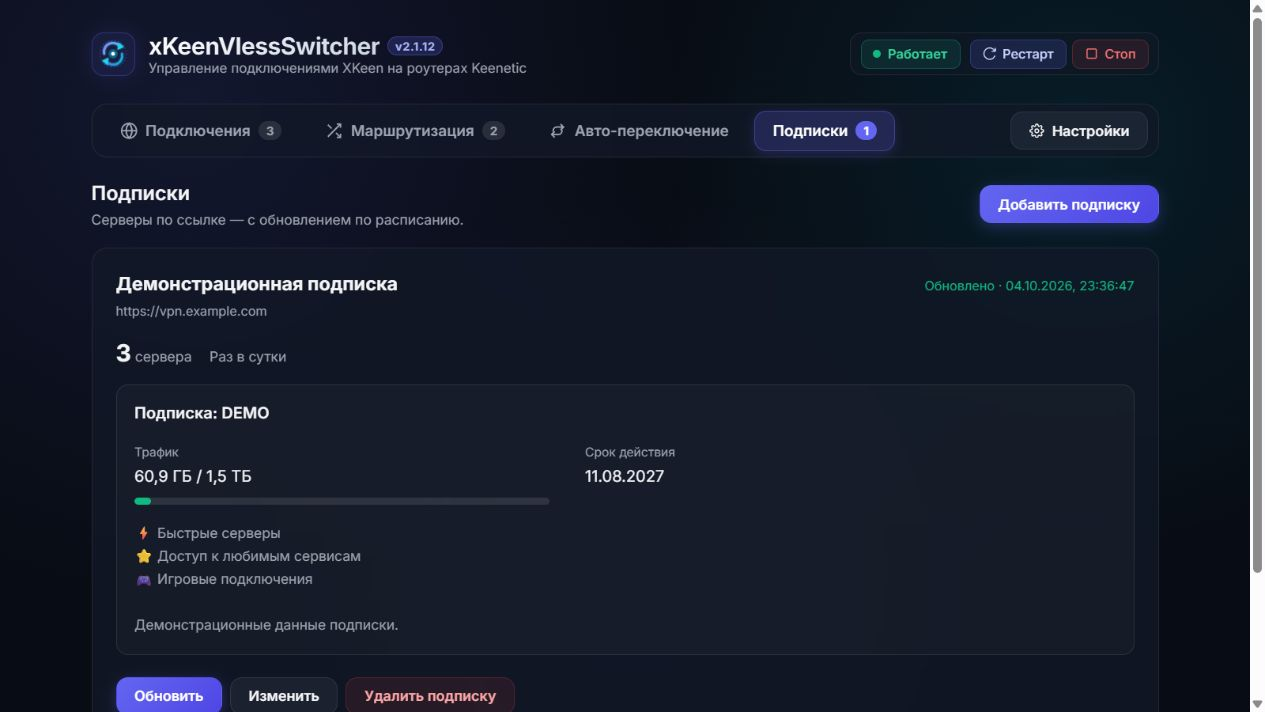
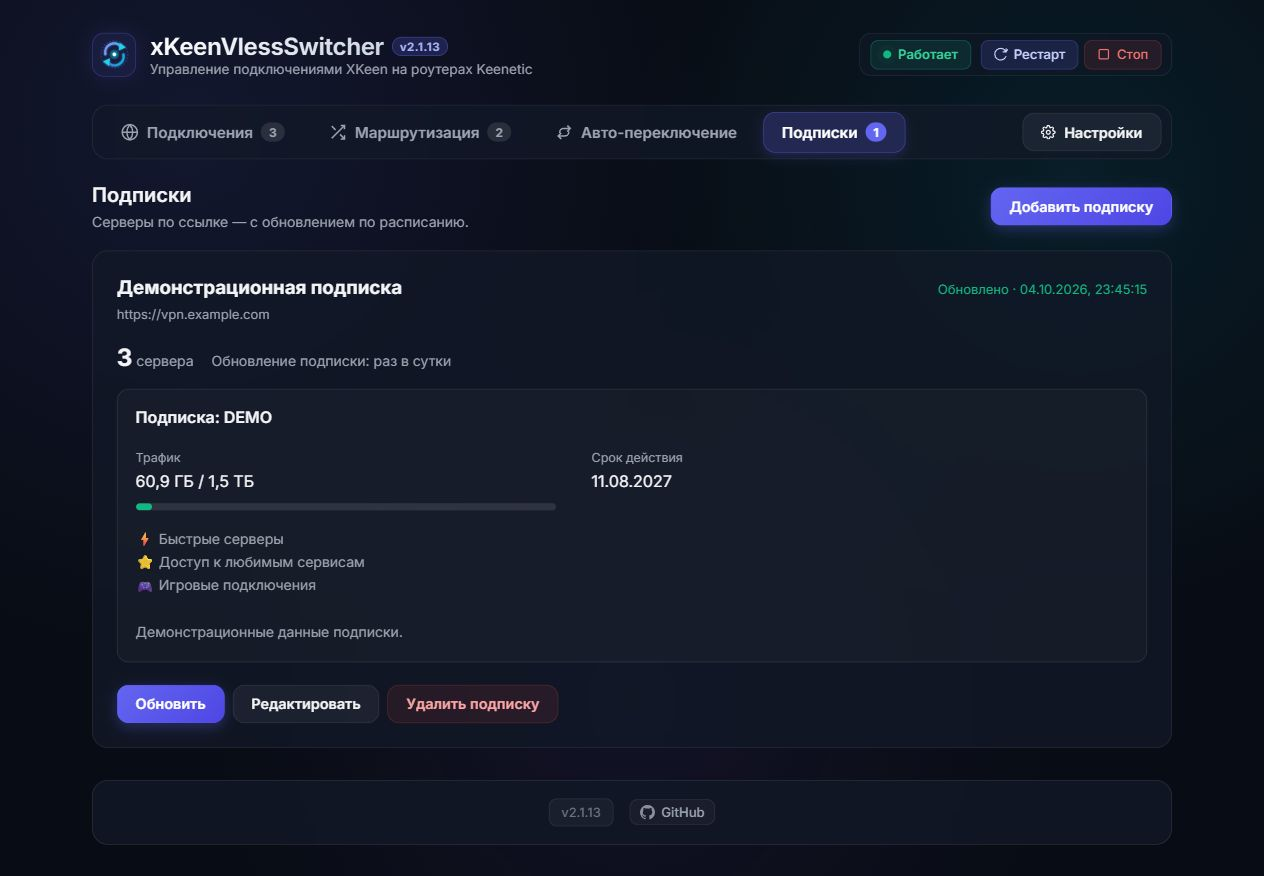
Load current subscription URL for editing and label update frequency (v2.1.13)

diff --git a/public/subscriptions.js b/public/subscriptions.js
@@ -56,27 +56,32 @@ function renderSubscriptions() {
     return `<article class="glass-card subscription-card">
       <div class="subscription-heading"><h3>${escapeHtml(sub.name)}</h3><span class="subscription-status ${sub.lastError ? 'subscription-error' : ''}">${status}</span></div>
       <p class="subscription-source">${escapeHtml(sub.source)}</p>
-      <div class="subscription-metrics"><span><strong>${sub.count || 0}</strong> ${serverNoun(sub.count || 0)}</span><span>${escapeHtml(subscriptionIntervals[sub.intervalHours] || 'Вручную')}</span></div>
+      <div class="subscription-metrics"><span><strong>${sub.count || 0}</strong> ${serverNoun(sub.count || 0)}</span><span>Обновление подписки: ${escapeHtml((subscriptionIntervals[sub.intervalHours] || 'Вручную').toLowerCase())}</span></div>
       ${subscriptionInfoHtml(sub.info)}
       ${stats?.protected ? `<p class="help-text">Сохранено отсутствующих серверов: ${stats.protected}. Они используются или изменены вручную — проверьте их во вкладке «Подключения».</p>` : ''}
       ${stats?.unsupported?.length ? `<p class="help-text">Пропущены протоколы: ${escapeHtml(stats.unsupported.join(', '))}. Отсутствующие серверы сохранены.</p>` : ''}
       ${sub.lastError ? `<p class="subscription-error" role="alert">${escapeHtml(sub.lastError)}</p>` : ''}
       <div class="subscription-actions">
         <button class="btn btn-primary btn-sm" data-sub-action="refresh" data-sub-id="${escapeHtml(sub.id)}" ${busy ? 'disabled' : ''}>${busy ? 'Загрузка…' : 'Обновить'}</button>
-        <button class="btn btn-secondary btn-sm" data-sub-action="edit" data-sub-id="${escapeHtml(sub.id)}" ${busy ? 'disabled' : ''}>Изменить</button>
+        <button class="btn btn-secondary btn-sm" data-sub-action="edit" data-sub-id="${escapeHtml(sub.id)}" ${busy ? 'disabled' : ''}>Редактировать</button>
         <button class="btn btn-danger btn-sm" data-sub-action="delete" data-sub-id="${escapeHtml(sub.id)}" ${busy ? 'disabled' : ''}>Удалить подписку</button>
       </div>
     </article>`;
   }).join('');
 }
 
-function openSubscriptionModal(id) {
+let subscriptionEditRequest = 0;
+async function openSubscriptionModal(id) {
+  const request = ++subscriptionEditRequest;
   const sub = (appData.subscriptions || []).find(x => x.id === id);
   document.getElementById('subscription-form').reset();
   document.getElementById('subscription-id').value = sub?.id || '';
   document.getElementById('subscription-name').value = sub?.name || '';
   document.getElementById('subscription-url').required = !sub;
-  document.getElementById('subscription-url-help').textContent = sub ? 'Оставьте поле пустым, чтобы сохранить текущую ссылку. Новая ссылка применяется при следующем обновлении.' : 'Ссылка хранится на роутере и входит в резервную копию.';
+  document.getElementById('subscription-url').value = '';
+  document.getElementById('subscription-url').disabled = !!sub;
+  document.getElementById('subscription-save').disabled = !!sub;
+  document.getElementById('subscription-url-help').textContent = sub ? 'Текущая ссылка загружается…' : 'Ссылка хранится на роутере и входит в резервную копию.';
   document.getElementById('subscription-interval').value = sub?.intervalHours ?? 24;
   const routing = document.getElementById('subscription-routing');
   routing.innerHTML = appData.routings.map(r => `<option value="${escapeHtml(r.id)}">${escapeHtml(r.name)}</option>`).join('');
@@ -86,6 +91,20 @@ function openSubscriptionModal(id) {
   document.getElementById('subscription-form-error').textContent = '';
   openModal('modal-subscription');
   document.getElementById('subscription-name').focus();
+  if (sub) {
+    try {
+      const result = await subscriptionRequest('/' + encodeURIComponent(sub.id), 'GET');
+      if (request !== subscriptionEditRequest || document.getElementById('modal-subscription').classList.contains('hidden')) return;
+      document.getElementById('subscription-url').value = result.url;
+      document.getElementById('subscription-url-help').textContent = 'Новая ссылка применяется при следующем обновлении.';
+    } catch (error) {
+      if (request !== subscriptionEditRequest || document.getElementById('modal-subscription').classList.contains('hidden')) return;
+      document.getElementById('subscription-form-error').textContent = 'Не удалось загрузить текущую ссылку. Закройте форму и повторите попытку.';
+      return;
+    }
+    document.getElementById('subscription-url').disabled = false;
+    document.getElementById('subscription-save').disabled = false;
+  }
 }
 
 async function subscriptionRequest(path, method, body) {

diff --git a/test/frontend.test.js b/test/frontend.test.js
@@ -9,7 +9,7 @@ vm.runInContext(source.slice(source.indexOf('function getConnectionVlessUrl('), 
 vm.runInContext(source.slice(source.indexOf('function escapeHtml('), source.indexOf('function formatTime(')), scope);
 vm.runInContext(source.slice(source.indexOf('function getFlagEmoji('), source.indexOf('// GITHUB UPDATE CHECK')), scope);
 const subscriptionSource = fs.readFileSync(require.resolve('../public/subscriptions.js'), 'utf8');
-vm.runInContext(subscriptionSource.slice(0, subscriptionSource.indexOf('function openSubscriptionModal(')), scope);
+vm.runInContext(subscriptionSource.slice(0, subscriptionSource.indexOf('let subscriptionEditRequest')), scope);
 
 test('server counts use Russian singular, paucal and plural forms including teens', () => {
   for (const [count, noun] of [[0, 'серверов'], [1, 'сервер'], [2, 'сервера'], [4, 'сервера'], [5, 'серверов'],
@@ -30,6 +30,8 @@ test('subscription status shows the update date and time and hides legacy exclus
   const html = elements.get('subscriptions-list').innerHTML;
   assert.match(html, /Обновлено · 04\.10\.2026, \d{2}:\d{2}:\d{2}/);
   assert.match(html, /<strong>2<\/strong> сервера/);
+  assert.match(html, /Редактировать/);
+  assert.match(html, /Обновление подписки: раз в сутки/);
   assert.ok(!html.includes('Исключено'));
   assert.ok(!html.includes('Вернуть исключённые'));
   assert.equal(scope.subscriptionUpdatedLabel('invalid'), '');
@@ -99,4 +101,29 @@ test('routing list preserves rule order, escapes values and protects merged prof
 test('empty saved failover pool stays empty instead of selecting every server',()=>{
  const part=source.slice(source.indexOf('    const savedPool ='),source.indexOf('    poolContainer.innerHTML ='));
  for(const pool of [[],['one']]){const ctx={af:{poolConnectionIds:pool},conns:[{id:'one'},{id:'two'}]};vm.createContext(ctx);assert.deepEqual(Array.from(vm.runInContext(part+'\nsavedPool',ctx)),pool);}
+});
+
+
+test('subscription editor loads the saved URL and ignores stale requests', async () => {
+  const elements = new Map();
+  const context = {appData:{subscriptions:[{id:'s',name:'Demo'}],routings:[],connections:[],settings:{}}, escapeHtml:x=>x,openModal(){},document:{getElementById(id){
+    if(!elements.has(id)) elements.set(id,{value:'',reset(){},focus(){},classList:{contains(){return false;}}});
+    return elements.get(id);
+  }}};
+  vm.createContext(context);
+  vm.runInContext(subscriptionSource.slice(subscriptionSource.indexOf('let subscriptionEditRequest'), subscriptionSource.indexOf('async function subscriptionRequest')), context);
+  let resolve;
+  context.subscriptionRequest = () => new Promise(r => {resolve=r;});
+  const pending = context.openSubscriptionModal('s');
+  assert.equal(elements.get('subscription-save').disabled,true);
+  resolve({url:'https://example.com/demo'});await pending;
+  assert.equal(elements.get('subscription-url').value,'https://example.com/demo');
+  assert.equal(elements.get('subscription-save').disabled,false);
+  const stale=context.openSubscriptionModal('s');
+  await context.openSubscriptionModal();resolve({url:'https://example.com/old'});await stale;
+  assert.equal(elements.get('subscription-url').value,'');
+  context.subscriptionRequest=async()=>{throw Error('offline');};
+  await context.openSubscriptionModal('s');
+  assert.equal(elements.get('subscription-save').disabled,true);
+  assert.match(elements.get('subscription-form-error').textContent,/Не удалось загрузить/);
 });

diff --git a/public/index.html b/public/index.html
@@ -9,8 +9,8 @@
   <link rel="preconnect" href="https://fonts.googleapis.com">
   <link rel="preconnect" href="https://fonts.gstatic.com" crossorigin>
   <link href="https://fonts.googleapis.com/css2?family=Inter:wght@300;400;500;600;700&family=JetBrains+Mono:wght@400;500;600&display=swap" rel="stylesheet">
-  <link rel="stylesheet" href="style.css?v=2.1.12">
-  <link rel="stylesheet" href="/flags.css?v=2.1.12">
+  <link rel="stylesheet" href="style.css?v=2.1.13">
+  <link rel="stylesheet" href="/flags.css?v=2.1.13">
 </head>
 <body>
   <div class="app-background"></div>
@@ -58,7 +58,7 @@
         <div>
           <div class="brand-title-row">
             <h1>xKeenVlessSwitcher</h1>
-            <span class="version-tag" id="header-version">v2.1.12</span>
+            <span class="version-tag" id="header-version">v2.1.13</span>
           </div>
           <p class="subtitle">Управление подключениями XKeen на роутерах Keenetic</p>
         </div>
@@ -359,7 +359,7 @@
     <footer class="bottom-bar glass-card footer-centered">
       <div class="footer-content">
         <div class="app-version-badge" id="app-version-badge" title="Версия приложения">
-          <span id="app-version-text">v2.1.12</span>
+          <span id="app-version-text">v2.1.13</span>
         </div>
         <div id="app-update-group" class="app-update-group hidden">
           <a id="app-update-badge" class="app-update-badge" href="https://github.com/Jack13PythonLearn/xKeenVlessSwitcher/releases" target="_blank" rel="noopener noreferrer" title="Нажмите, чтобы открыть страницу релиза на GitHub">
@@ -1101,7 +1101,7 @@
   <div id="toast-container"></div>
 
   <script src="qrcode.min.js"></script>
-  <script src="app.js?v=2.1.12"></script>
-  <script src="subscriptions.js?v=2.1.12"></script>
+  <script src="app.js?v=2.1.13"></script>
+  <script src="subscriptions.js?v=2.1.13"></script>
 </body>
 </html>

diff --git a/server.js b/server.js
@@ -2012,6 +2012,12 @@ const server = http.createServer(async (req, res) => {
       const match = urlParts.match(/^\/api\/subscriptions\/([^/]+)(?:\/(refresh|exclusions))?$/);
       if (match) {
         const [, id, action] = match;
+        if (req.method === 'GET' && !action) {
+          res.setHeader('Cache-Control', 'no-store');
+          const sub = loadData().subscriptions.find(x => x.id === decodeURIComponent(id));
+          if (!sub) return sendJson(res, 404, { error: 'Подписка не найдена' });
+          return sendJson(res, 200, { url: sub.url });
+        }
         if (req.method === 'POST' && action === 'refresh') return sendJson(res, 200, { stats: await subscriptions.refresh(id) });
         if (req.method === 'DELETE' && action === 'exclusions') { subscriptions.resetExclusions(id); return sendJson(res, 200, { message: 'Исключения сброшены. Обновите подписку для возврата серверов.' }); }
         if (req.method === 'PUT' && !action) { subscriptions.edit(id, await parseJsonBody(req)); return sendJson(res, 200, { message: 'Подписка сохранена' }); }

diff --git a/test/subscriptions.test.js b/test/subscriptions.test.js
@@ -310,6 +310,13 @@ test('HTTP API redacts URL, deletion does not exclude servers, and backup restor
   try {
     const visible = await (await fetch(base + '/api/data')).json();
     assert.equal(visible.subscriptions[0].url, undefined);
+    const editResponse = await fetch(base + '/api/subscriptions/s');
+    assert.equal(editResponse.headers.get('cache-control'), 'no-store');
+    assert.equal((await editResponse.json()).url, 'https://example.com/private-token');
+    assert.equal((await fetch(base + '/api/subscriptions/missing')).status, 404);
+    const unchanged = await fetch(base + '/api/subscriptions/s', { method: 'PUT', headers: { 'Content-Type': 'application/json' }, body: JSON.stringify({url:'https://example.com/private-token'}) });
+    assert.equal(unchanged.status, 200);
+    assert.equal(loadData().subscriptions[0].url, 'https://example.com/private-token');
     assert.equal(visible.connections[0].subscriptionId, 's');
     const remove = await fetch(base + '/api/connections/' + state.connections[0].id, { method: 'DELETE' });
     assert.equal(remove.status, 200);

diff --git a/CHANGELOG.md b/CHANGELOG.md
@@ -1,5 +1,13 @@
 # История изменений
 
+## 2.1.13
+
+- Кнопка «Изменить» переименована в «Редактировать».
+- Форма редактирования загружает текущую ссылку подписки отдельным запросом без кеширования; общий список по-прежнему скрывает полный URL.
+- При ошибке загрузки ссылки сохранение блокируется. Устаревшие ответы не заполняют другую форму.
+- Период подписан явно: «Обновление подписки: раз в сутки».
+- Проверки: 53 автоматических теста; изменение интервала и сохранение после перезагрузки в браузере; проверка установки на роутер.
+
 ## 2.1.12
 
 - Исправлено восстановление пустого пула резервных подключений: после перезагрузки страницы серверы больше не выбираются автоматически.

diff --git a/README.md b/README.md
@@ -1,6 +1,6 @@
 # xKeenVlessSwitcher
 
-Веб-панель для управления XKeen на роутерах с Entware. Текущая версия — **2.1.12**.
+Веб-панель для управления XKeen на роутерах с Entware. Текущая версия — **2.1.13**.
 
 - Компактный список подключений: флаги, пинг, активация и фильтр LTE / обычные серверы.
 - Импорт подписок VLESS и Hysteria2, обновление по расписанию, трафик и срок действия.
@@ -55,6 +55,6 @@ sh install.sh
 
 ## Изменения и проверка
 
-[История изменений](CHANGELOG.md). Автоматические тесты: `node --test` — 52 теста для версии 2.1.12.
+[История изменений](CHANGELOG.md). Автоматические тесты: `node --test` — 53 теста для версии 2.1.13.
 
 Основано на [XKeenSwitcher](https://github.com/sergey1900/XKeenSwitcher). Лицензия флагов: [MIT](public/flags-LICENSE.txt).
